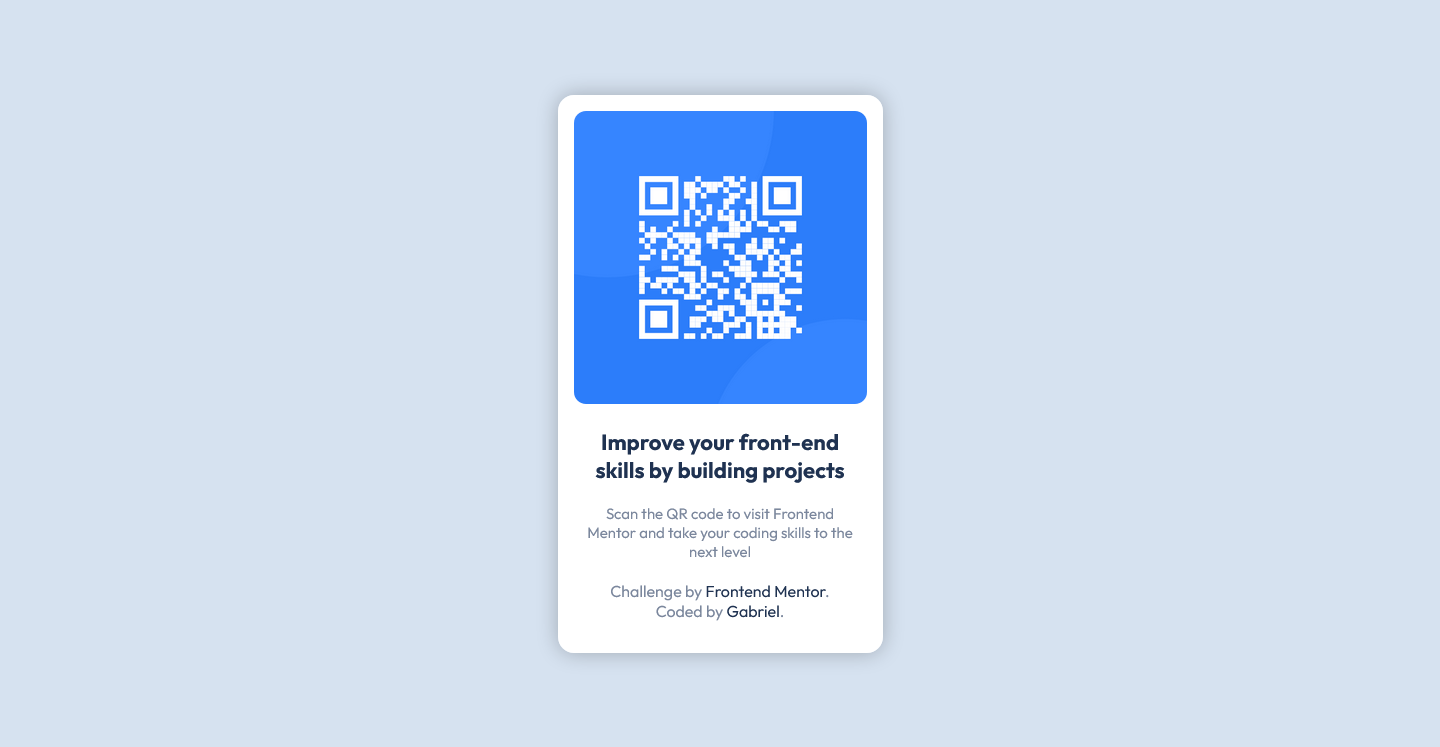
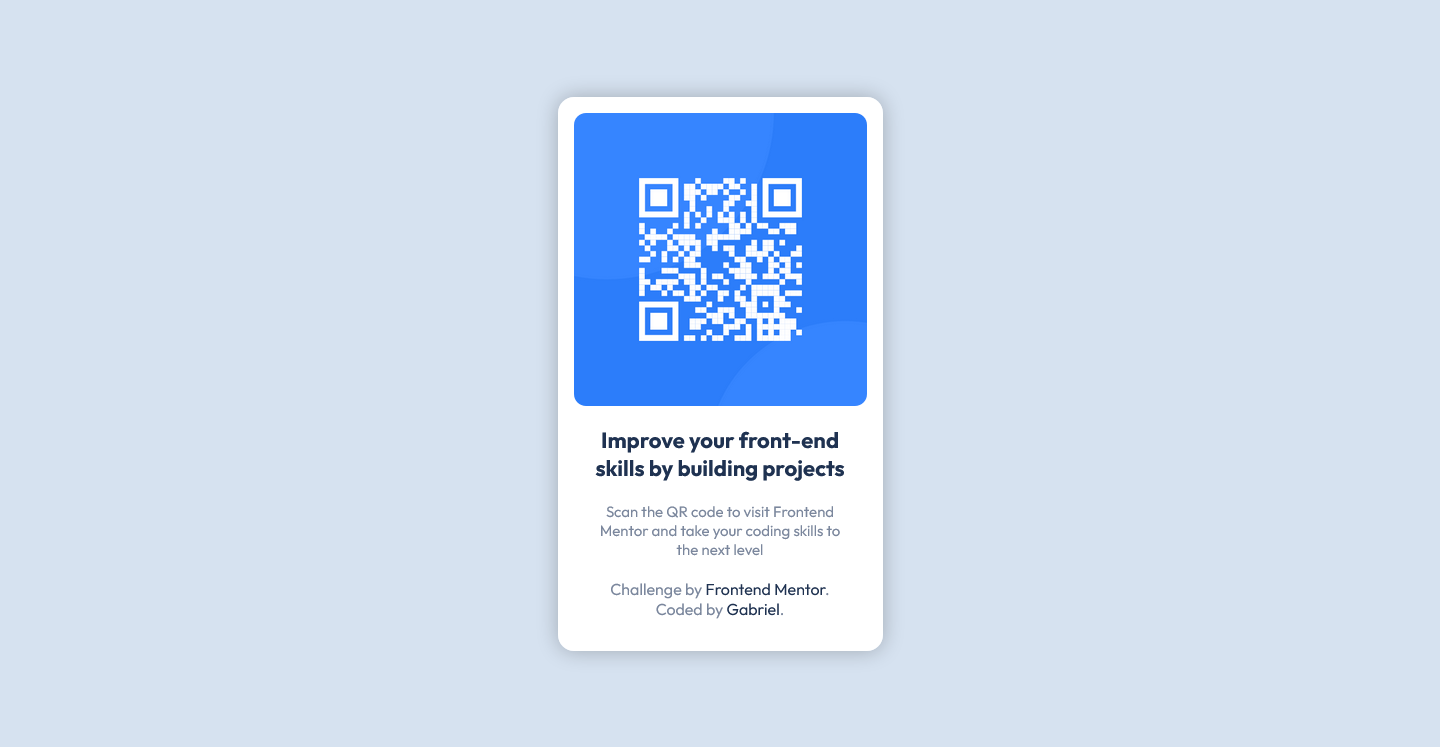
Readme updated

diff --git a/README.md b/README.md
@@ -4,17 +4,6 @@
 
 This little site was made with *HTML* and *CSS*. The objective was to replicate the design provided by *Frontend Mentor* website. Since the sketch and Figma files are premium only, I used the images and Style Guide provided to make it.
 
-I usually use *flexbox* to center stuff, but since this project is very simple, I wanted to do it in a different way, so I tried to remember how I've done it in the past. Gladly, I remembered it:
-
-```css
-left: 50%;
-position: absolute;
-transform: translate(-50%, -50%);
-top: 50%;
-```
-
-In this case, I used the `position` property as `absolute`, moved the container to the center of the screen with `left: 50%` and `top: 50%`, and "removed" the remaining space with `translate(-50%, -50%)`. This is only one of the many ways of centering a container.
-
 ## 🔨 Technologies
 
 <div style="display: inline-block">
@@ -39,3 +28,4 @@ This was a very simple and fun challenge provided by **Frontend Mentor**.
 * [🔍 Frontend Mentor](https://www.frontendmentor.io/home)
 * [🔍 QR Code Challenge](https://www.frontendmentor.io/challenges/qr-code-component-iux_sIO_H)
 * [🔍 Centering a Container](https://www.freecodecamp.org/news/how-to-center-a-div-with-css-10-different-ways/)
+* [🔍 Removing extra spaces from divs](https://tutorialschools.com/Html/how-to-remove-extra-space-below-image-inside-div)
